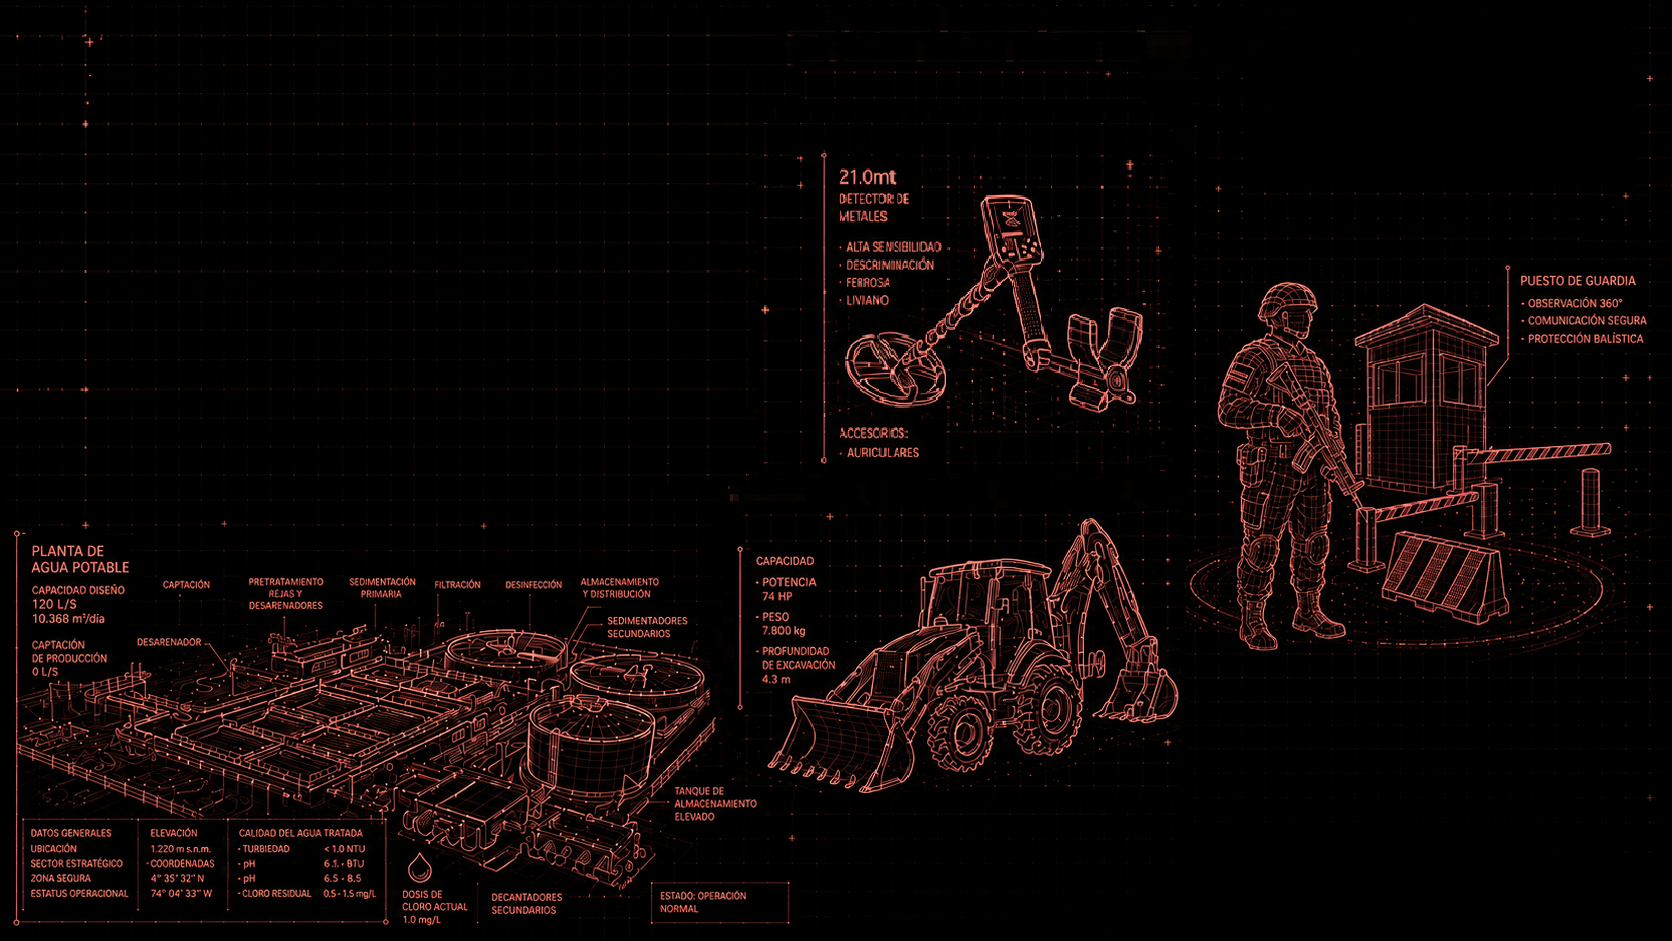
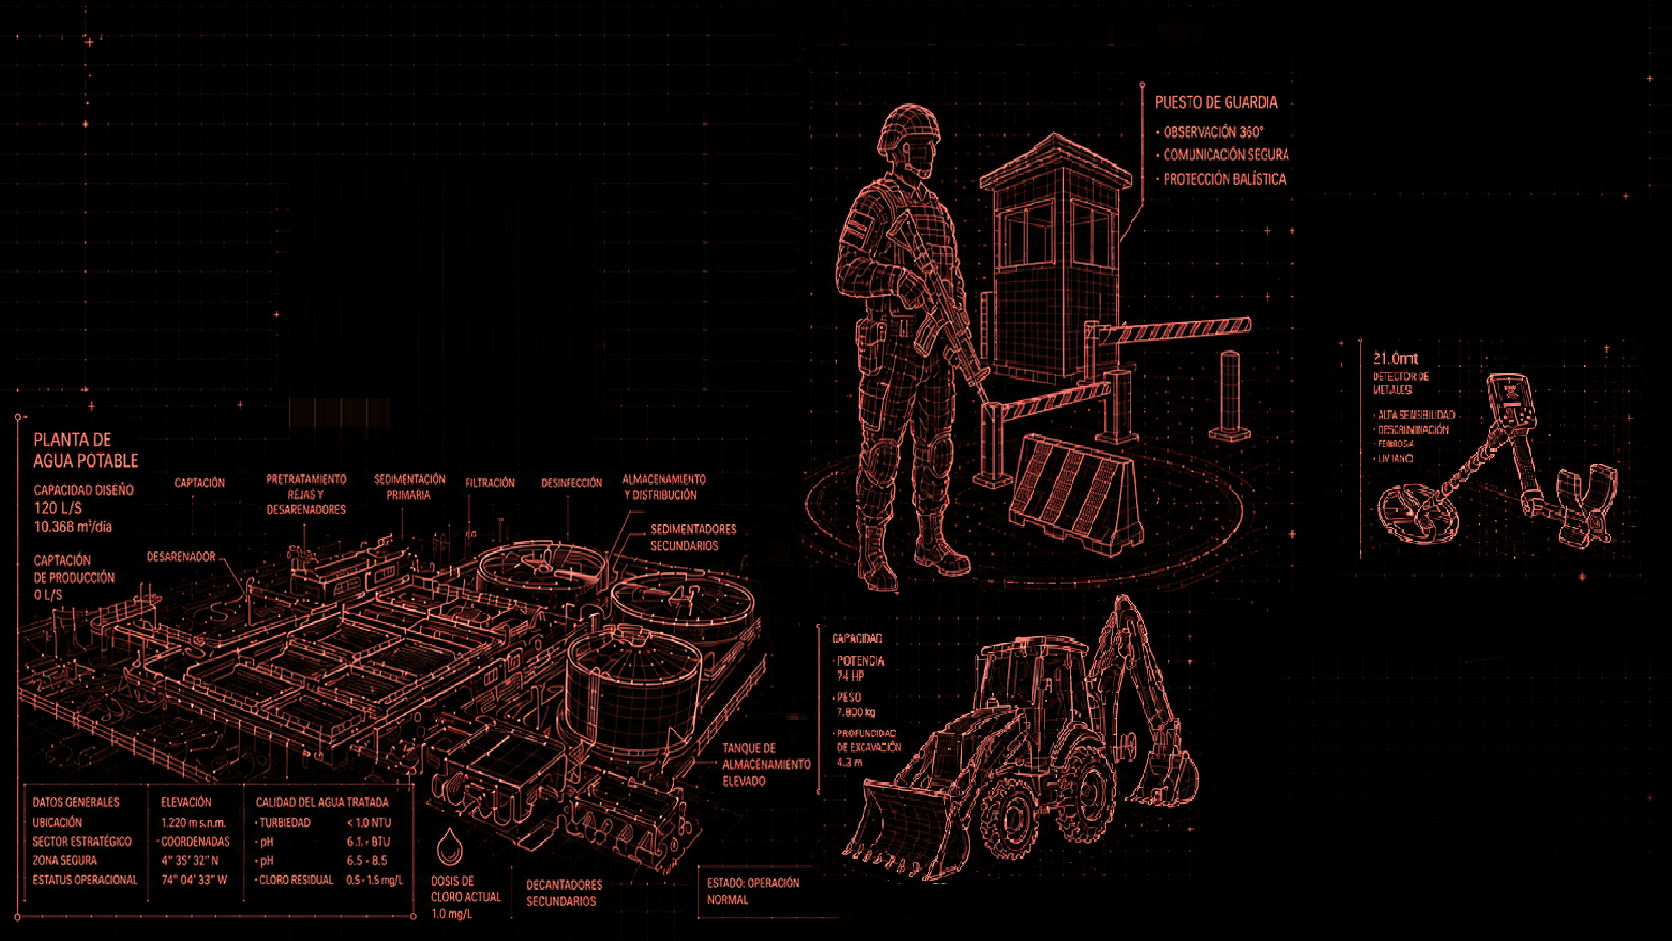
SE AJUSTO NUEVAMENE EL LOGIN DEL SISTEMA........

Changed region(s): [[0.0, 0.0925, 0.9952, 0.9862]]

diff --git a/src/app/pages/digei/finca-raiz/infraestructuras-arrendadas/listado-infraestructuras-arrendadas/listado-infraestructuras-arrendadas.component.html b/src/app/pages/digei/finca-raiz/infraestructuras-arrendadas/listado-infraestructuras-arrendadas/listado-infraestructuras-arrendadas.component.html
@@ -1,9 +1,9 @@
-<h2 class="page-title">Infraestructuras Arrendadas</h2>
+<h2 class="page-title">ARRIENDOS</h2>
 <app-semaforo-contadores [total]="totalRegistros" [estados]="estadosUsoContadores" />
 
 <section class="page-card panel-terrenos" [formGroup]="form">
   <div class="barra-acciones">
-    <input type="text" formControlName="keyword" placeholder="Buscar infraestructura arrendada" (keyup.enter)="buscar()">
+    <input type="text" formControlName="keyword" placeholder="Buscar arriendo" (keyup.enter)="buscar()">
     <button type="button" class="btn-sicim btn-buscar" (click)="buscar()">Buscar</button>
     <select formControlName="unidadMilitar" (change)="buscar()">
       <option value="">TODAS LAS UNIDADES MILITARES</option>
@@ -17,7 +17,7 @@
         <option [value]="tipo.idTipoEstructuraInfraestructuraArrendada">{{ tipo.nombreTipoEstructuraInfraestructuraArrendada }}</option>
       }
     </select>
-    <button type="button" class="btn-sicim btn-nuevo" (click)="abrir('guardar')">Nueva Infraestructura Arrendada</button>
+    <button type="button" class="btn-sicim btn-nuevo" (click)="abrir('guardar')">Nuevo Arriendo</button>
   </div>
 
   <div class="tabla-contenedor">
@@ -34,7 +34,7 @@
             <td><span [class]="'badge-estado ' + claseEstadoUso(infraestructura.estadoUsoInfraestructuraArrendada)">{{ infraestructura.estadoUsoInfraestructuraArrendada }}</span></td>
             <td>
               <div class="acciones-celda">
-                <button type="button" class="btn-accion btn-ver" title="Ver" aria-label="Ver infraestructura arrendada" (click)="ver(infraestructura)">
+                <button type="button" class="btn-accion btn-ver" title="Ver" aria-label="Ver arriendo" (click)="ver(infraestructura)">
                   <svg xmlns="http://www.w3.org/2000/svg" width="14" height="14" viewBox="0 0 24 24" fill="none" stroke="currentColor" stroke-width="2" stroke-linecap="round" stroke-linejoin="round"><path d="M1 12s4-8 11-8 11 8 11 8-4 8-11 8-11-8-11-8z"/><circle cx="12" cy="12" r="3"/></svg>
                 </button>
                 <button type="button" class="btn-accion btn-editar" title="Modificar" (click)="abrir('modificar', infraestructura)">
@@ -47,7 +47,7 @@
             </td>
           </tr>
         } @empty {
-          <tr><td colspan="7" class="tabla-vacia">No se encontraron infraestructuras arrendadas.</td></tr>
+          <tr><td colspan="7" class="tabla-vacia">No se encontraron arriendos.</td></tr>
         }
       </tbody>
     </table>
@@ -60,9 +60,9 @@
 </section>
 
 @if (modalEdicion) {
-  <div class="modal-overlay" (click)="cerrar()"><div class="modal-caja" (click)="$event.stopPropagation()"><div class="modal-header"><h3>Infraestructura arrendada</h3><button type="button" class="modal-cerrar" (click)="cerrar()">×</button></div><div class="modal-cuerpo"><app-add-upd-del-infraestructura-arrendada [modo]="modo" [data]="seleccionado" [unidades]="unidades" [proveedores]="proveedores" [tipos]="tipos" (cerrarModal)="cerrar()" (guardar)="guardar($event)" (eliminar)="eliminar($event)" /></div></div></div>
+  <div class="modal-overlay" (click)="cerrar()"><div class="modal-caja" (click)="$event.stopPropagation()"><div class="modal-header"><h3>{{ modo === 'guardar' ? 'Nuevo Arriendo' : modo === 'modificar' ? 'Modificar Arriendo' : 'Eliminar Arriendo' }}</h3><button type="button" class="modal-cerrar" (click)="cerrar()">×</button></div><div class="modal-cuerpo"><app-add-upd-del-infraestructura-arrendada [modo]="modo" [data]="seleccionado" [unidades]="unidades" [proveedores]="proveedores" [tipos]="tipos" (cerrarModal)="cerrar()" (guardar)="guardar($event)" (eliminar)="eliminar($event)" /></div></div></div>
 }
 @if (modalVista) {
-  <div class="modal-overlay" (click)="cerrar()"><div class="modal-caja" (click)="$event.stopPropagation()"><div class="modal-header"><h3>Detalle</h3><button type="button" class="modal-cerrar" (click)="cerrar()">×</button></div><div class="modal-cuerpo"><app-vista-infraestructura-arrendada [data]="seleccionado" (cerrarModal)="cerrar()" /></div></div></div>
+  <div class="modal-overlay" (click)="cerrar()"><div class="modal-caja" (click)="$event.stopPropagation()"><div class="modal-header"><h3>Detalle del Arriendo</h3><button type="button" class="modal-cerrar" (click)="cerrar()">×</button></div><div class="modal-cuerpo"><app-vista-infraestructura-arrendada [data]="seleccionado" (cerrarModal)="cerrar()" /></div></div></div>
 }
 @if (mensaje) { <div class="toast-global" [class.toast-exito]="mensajeTipo === 'exito'" [class.toast-error]="mensajeTipo === 'error'">{{ mensaje }}</div> }

diff --git a/src/app/pages/digei/finca-raiz/infraestructuras-arrendadas/listado-infraestructuras-arrendadas/listado-infraestructuras-arrendadas.component.ts b/src/app/pages/digei/finca-raiz/infraestructuras-arrendadas/listado-infraestructuras-arrendadas/listado-infraestructuras-arrendadas.component.ts
@@ -46,8 +46,18 @@ export class ListadoInfraestructurasArrendadasComponent implements OnInit {
   }
   buscar():void{this.paginaActual=0;this.listar();} cambiarCantidad():void{this.cantidad=Number(this.form.value.cantidad);this.buscar();} totalPaginas():number{return Math.max(1,Math.ceil(this.totalRegistros/this.cantidad));} cambiarPagina(p:number):void{this.paginaActual=p;this.listar();}
   abrir(m:'guardar'|'modificar'|'eliminar',x:InfraestructurasArrendadasI|null=null):void{this.spinner.showBeforeOpening(()=>{this.modo=m;this.seleccionado=x;this.modalEdicion=true;this.cdr.markForCheck();});} ver(x:InfraestructurasArrendadasI):void{this.seleccionado=x;this.modalVista=true;} cerrar():void{this.modalEdicion=false;this.modalVista=false;this.seleccionado=null;}
-  guardar(x:InfraestructurasArrendadasI):void{const modificando=!!x.idInfraestructuraArrendada;(modificando?this.service.updateRentedInfrastructure(x):this.service.addRentedInfrastructure(x)).subscribe({next:r=>{this.mostrarMensaje('exito',r.mensaje||(modificando?'Infraestructura arrendada modificada correctamente.':'Infraestructura arrendada creada correctamente.'));this.cerrar();this.listar();},error:e=>this.mostrarMensaje('error',e.error?.mensaje||(modificando?'Error al modificar la infraestructura arrendada.':'Error al crear la infraestructura arrendada.'))});} eliminar(id:number):void{this.service.deleteRentedInfrastructure(id).subscribe({next:r=>{this.mostrarMensaje('exito',r.mensaje||'Infraestructura arrendada eliminada correctamente.');this.cerrar();this.listar();},error:e=>this.mostrarMensaje('error',e.error?.mensaje||'Error al eliminar la infraestructura arrendada.')});}
+  guardar(x:InfraestructurasArrendadasI):void{const modificando=!!x.idInfraestructuraArrendada;(modificando?this.service.updateRentedInfrastructure(x):this.service.addRentedInfrastructure(x)).subscribe({next:r=>{this.mostrarMensaje('exito',r.mensaje||(modificando?'Arriendo modificado correctamente.':'Arriendo creado correctamente.'));this.cerrar();this.listar();},error:e=>this.mostrarMensaje('error',e.error?.mensaje||(modificando?'Error al modificar el arriendo.':'Error al crear el arriendo.'))});} eliminar(id:number):void{this.service.deleteRentedInfrastructure(id).subscribe({next:r=>{this.mostrarMensaje('exito',r.mensaje||'Arriendo eliminado correctamente.');this.cerrar();this.listar();},error:e=>this.mostrarMensaje('error',e.error?.mensaje||'Error al eliminar el arriendo.')});}
   claseEstadoUso(estado: unknown): string { const clases: Record<string,string>={BUENO:'badge-bueno',REGULAR:'badge-regular',MALO:'badge-malo',MANTENIMIENTO:'badge-mantenimiento','FUERA DE SERVICIO':'badge-fuera-servicio','DADA DE BAJA':'badge-baja'}; return clases[this.normalizarEstado(estado)]??'badge-neutral'; }
   private normalizarEstado(estado: unknown): string { return String(estado??'').trim().toUpperCase().normalize('NFD').replace(/[\u0300-\u036f]/g,''); }
-  private mostrarMensaje(tipo:'exito'|'error',mensaje:string):void{if(this.mensajeTimer)clearTimeout(this.mensajeTimer);this.mensajeTipo=tipo;this.mensaje=mensaje;this.cdr.markForCheck();this.mensajeTimer=setTimeout(()=>{this.mensaje='';this.cdr.markForCheck();},4000);}
+  private mostrarMensaje(tipo:'exito'|'error',mensaje:string):void{if(this.mensajeTimer)clearTimeout(this.mensajeTimer);this.mensajeTipo=tipo;this.mensaje=mensaje.replace(
+    /\b(?:(la|una|las|unas)\s+)?infraestructuras?\s+arrendadas?(?:\s+(creada|modificada|actualizada|eliminada|registrada|encontrada)(s?))?\b/gi,
+    (texto, articulo: string | undefined, accion: string | undefined, pluralAccion: string | undefined) => {
+      const plural = /infraestructuras\b/i.test(texto);
+      const articulos: Record<string, string> = { la: 'el', una: 'un', las: 'los', unas: 'unos' };
+      let etiqueta = (articulo ? articulos[articulo.toLowerCase()] + ' ' : '') + (plural ? 'arriendos' : 'arriendo');
+      if (accion) etiqueta += ' ' + accion.toLowerCase().slice(0, -1) + 'o' + (pluralAccion || '');
+      if (texto === texto.toUpperCase()) return etiqueta.toUpperCase();
+      return texto[0] === texto[0].toUpperCase() ? etiqueta[0].toUpperCase() + etiqueta.slice(1) : etiqueta;
+    }
+  );this.cdr.markForCheck();this.mensajeTimer=setTimeout(()=>{this.mensaje='';this.cdr.markForCheck();},4000);}
 }

diff --git a/src/app/app.routes.ts b/src/app/app.routes.ts
@@ -37,7 +37,7 @@ export const routes: Routes = [
               { path: 'infraestructuras/listado-infraestructuras', loadComponent: () => import('./pages/digei/finca-raiz/infraestructuras/listado-infraestructuras/listado-infraestructuras.component').then(m => m.ListadoInfraestructurasComponent), title: 'Infraestructuras | SICIM' },
               { path: 'terrenos/listado-terrenos', loadComponent: () => import('./pages/digei/finca-raiz/terrenos/listado-terrenos/listado-terrenos.component').then(m => m.ListadoTerrenosComponent), title: 'Terrenos | SICIM' },
               { path: 'comodatos/listado-comodatos', loadComponent: () => import('./pages/digei/finca-raiz/comodatos/listado-comodatos/listado-comodatos.component').then(m => m.ListadoComodatosComponent), title: 'Comodatos | SICIM' },
-              { path: 'infraestructuras-arrendadas/listado-infraestructuras-arrendadas', loadComponent: () => import('./pages/digei/finca-raiz/infraestructuras-arrendadas/listado-infraestructuras-arrendadas/listado-infraestructuras-arrendadas.component').then(m => m.ListadoInfraestructurasArrendadasComponent), title: 'Infraestructuras arrendadas | SICIM' },
+              { path: 'infraestructuras-arrendadas/listado-infraestructuras-arrendadas', loadComponent: () => import('./pages/digei/finca-raiz/infraestructuras-arrendadas/listado-infraestructuras-arrendadas/listado-infraestructuras-arrendadas.component').then(m => m.ListadoInfraestructurasArrendadasComponent), title: 'Arriendos | SICIM' },
               { path: 'deshboards-estadisticas', loadComponent: () => import('./pages/digei/finca-raiz/deshboards-estadisticas/deshboards-estadisticas.component').then(m => m.DeshboardsEstadisticasComponent), title: 'Dashboards y estadísticas | SICIM' },
               { path: 'infraestructuras/estadisticas-infraestructuras', redirectTo: 'deshboards-estadisticas', pathMatch: 'full' },
               { path: 'terrenos/estadisticas-terrenos', redirectTo: 'deshboards-estadisticas', pathMatch: 'full' },

diff --git a/src/app/pages/login/_acceso-layout.scss b/src/app/pages/login/_acceso-layout.scss
@@ -24,12 +24,15 @@ main {
 .division-login .consola, .division-recuperacion .consola { transform: scaleY(.89); transform-origin: top center; }
 .marca-login { position: absolute; z-index: 2; right: 6.7%; top: .5%; width: 14.66%; height: 30%; }
 .titulo-login {
+  // Desplazamiento extra hacia abajo del pinon; se descuenta tambien del
+  // espacio libre para que nunca se salga por el borde inferior.
+  --pinon-bajada: calc(6dvh + .5mm);
   position: absolute;
   z-index: 1;
   left: 25%;
-  top: calc(2.6dvh + min(26.62vw, 477px) + 12px);
+  top: calc(2.6dvh + min(26.62vw, 477px) + 12px + var(--pinon-bajada));
   // Solo el pinon se adapta al espacio libre bajo el cuadro original.
-  width: min(14.6611vw, max(0px, calc((97.4dvh - min(26.62vw, 477px) - 28px) * .7330556)));
+  width: min(14.6611vw, max(0px, calc((97.4dvh - min(26.62vw, 477px) - 28px - var(--pinon-bajada)) * .7330556)));
   aspect-ratio: 1;
   transform: translateX(-50%);
 }
